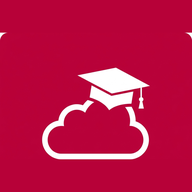
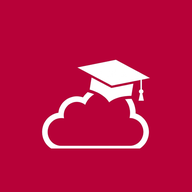
Perfectly center cloud, remove text, fix edges, bust cache

Changed region(s): [[0.2188, 0.3125, 0.7812, 0.8438], [0.9688, 0.1562, 1.0, 0.2188], [0.0, 0.1562, 0.0312, 0.2188]]

diff --git a/index.html b/index.html
@@ -62,7 +62,7 @@
 
   <!-- Mostriamo la vera icona statica -->
   <div class="wp8-tile-preview" id="tile-preview">
-    <img src="icon-192.png" alt="Nuvola">
+    <img src="icon-192.png?v=4" alt="Nuvola">
   </div>
 
   <h1 id="main-title">nuvola app</h1>
